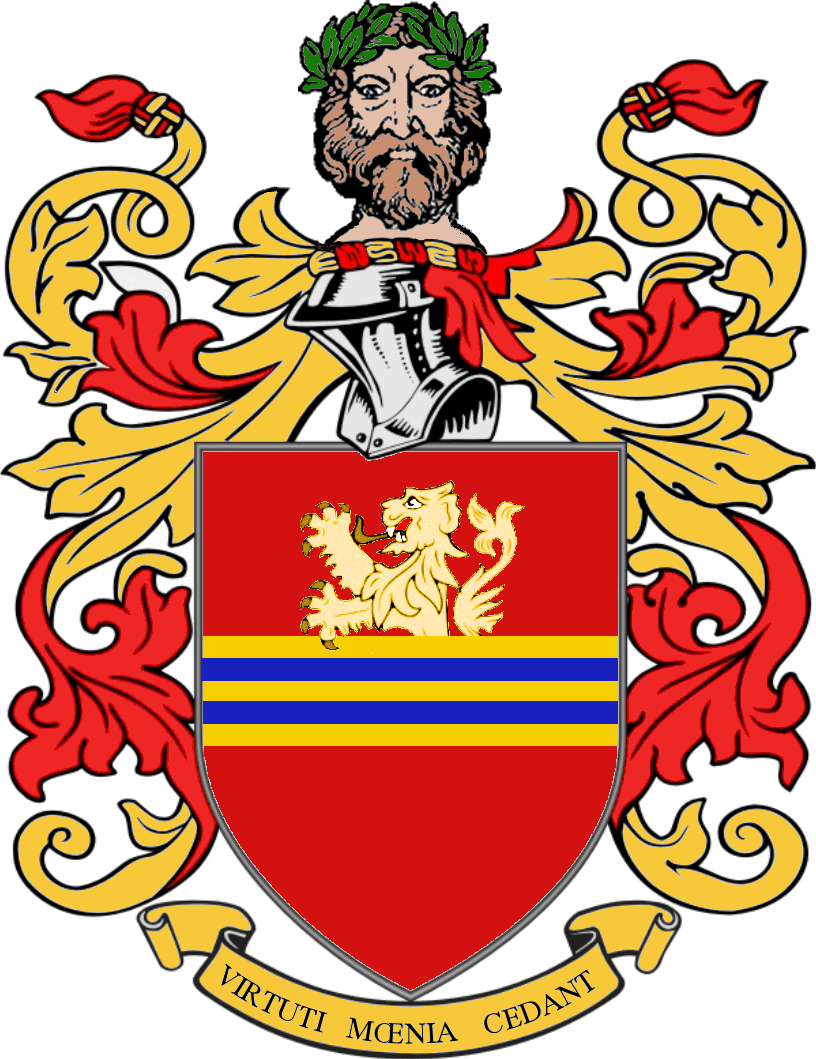
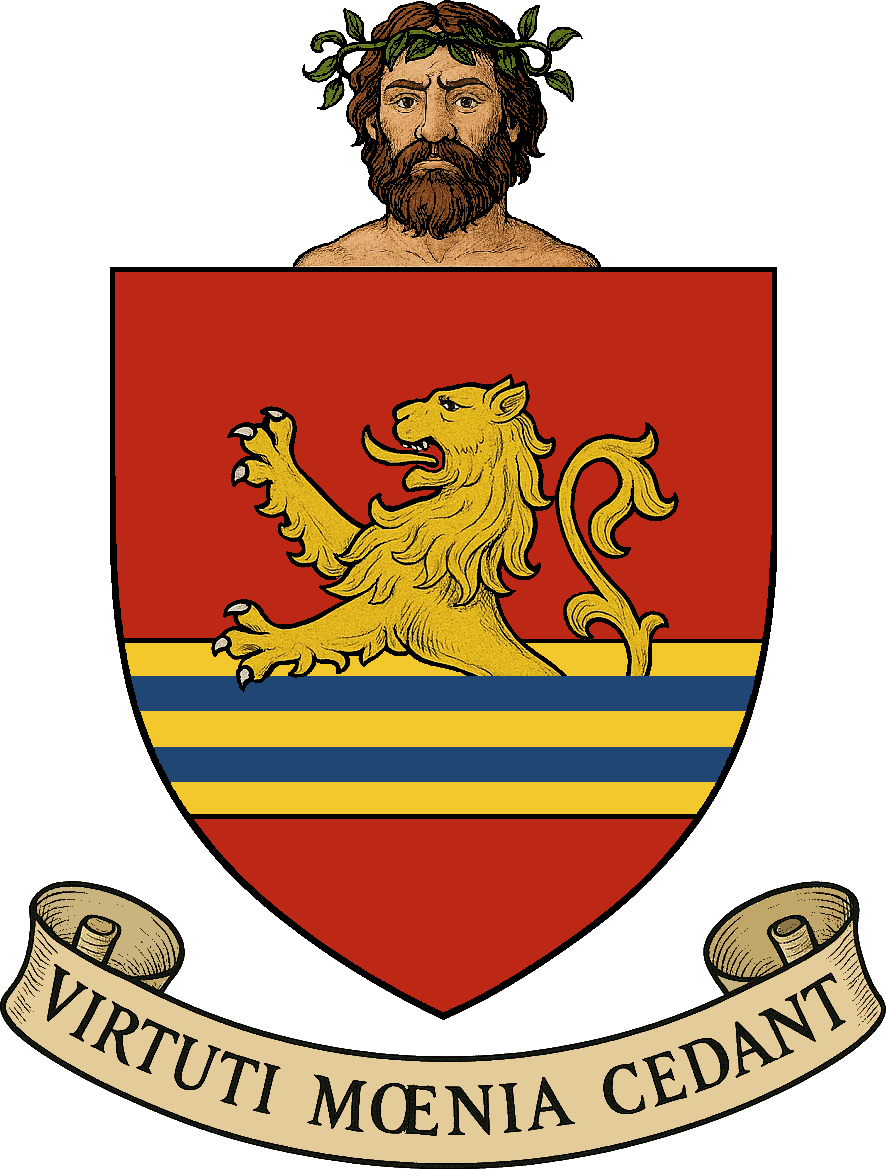
Newly drawn crest

diff --git a/genstart.htm b/genstart.htm
@@ -18,7 +18,7 @@
 <table border="0" cellpadding="20" cellspacing="0" align="center">
   <tr>
     <td><a href="no_erase/arms.html">
-    <img src="no_erase/crest(s).png" width="139" height="180" border="0" alt="Willder/Wilder family crest"></a></td>
+    <img src="no_erase/crest.png" width="137" height="181" border="0" alt="Willder/Wilder family crest"></a></td>
     <td align="center"><h1>Genealogical data for the family<br><br>WILLDER</h1></td>
   </tr>
 </table>
